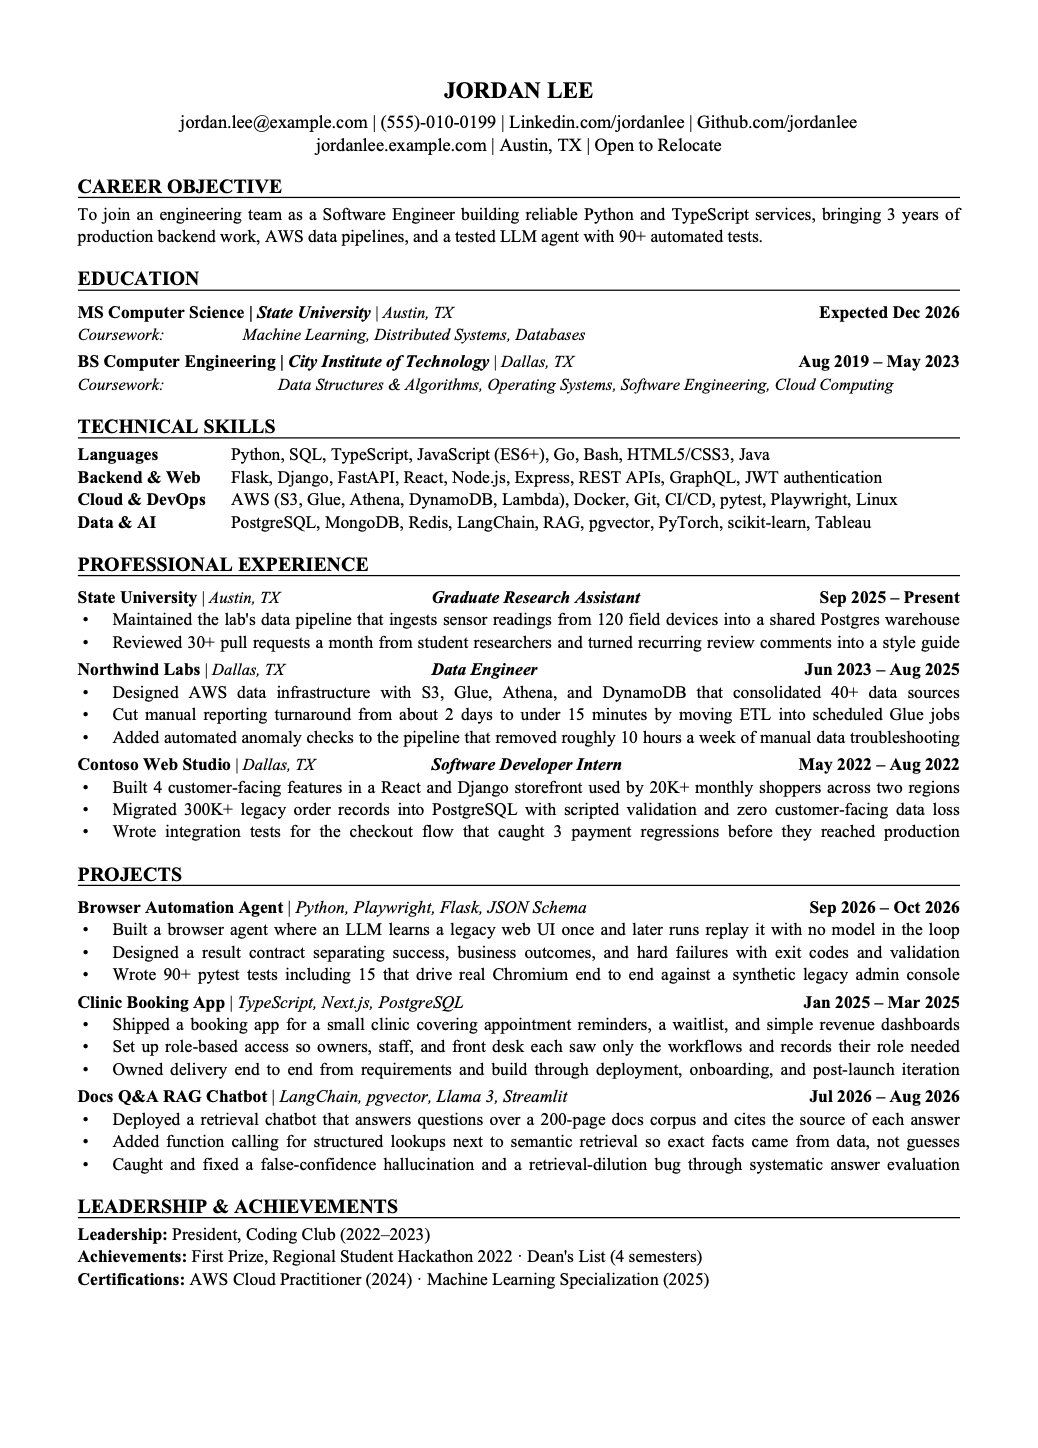
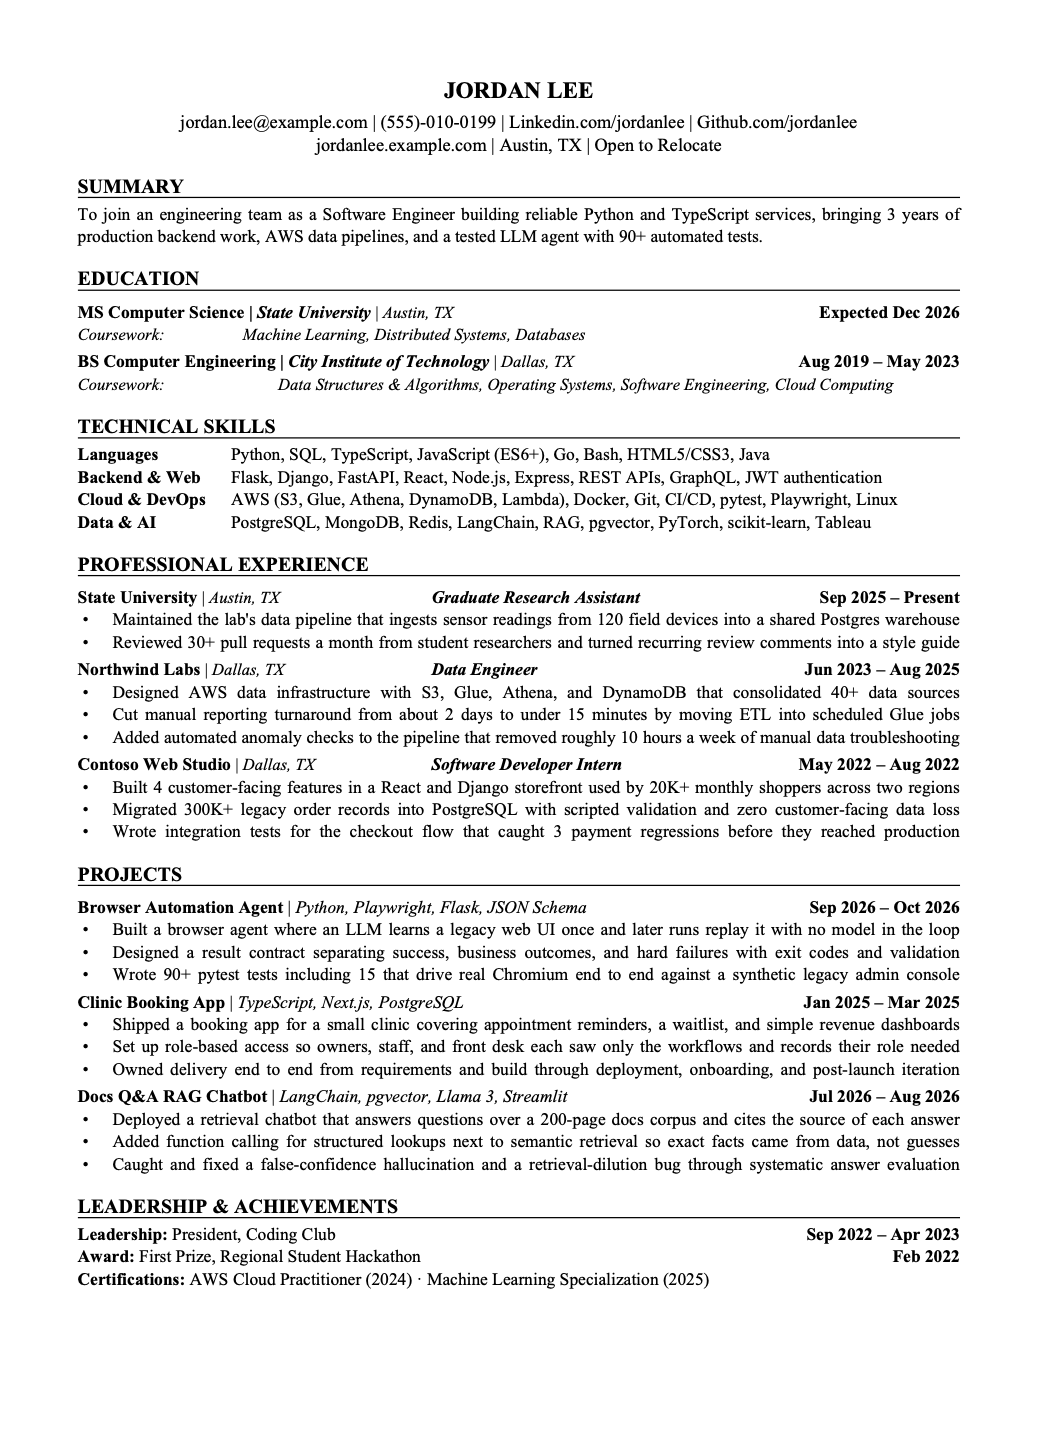
Resume follows the master prompt's section title and achievement dates
- Package has summary_title + summary (the prompt names the section, e.g. SUMMARY);
  older career_objective packages still render
- Leadership & Achievements lines carry a date, printed bold and right-aligned
- Line checks, patch revisions, autofill, and the app adapter updated to match

diff --git a/app/pipeline.py b/app/pipeline.py
@@ -376,13 +376,13 @@ def _tailor_prompt(job: dict) -> str:
 
 
 def _revise_prompt(job: dict, prev: dict, problems: list[str]) -> str:
-    doc = {k: prev[k] for k in ("career_objective", "education", "skills", "experience", "projects", "leadership", "cover_letter")}
+    doc = {k: prev[k] for k in ("summary", "career_objective", "education", "skills", "experience", "projects", "leadership", "cover_letter") if k in prev}
     return (
         "CALL TYPE: REVISE (PATCH)\n\nThe app rendered your package and its checks found these problems. Fix every one "
         "honestly (real facts only, per Section I / I-B) with the SMALLEST set of changes, leaving everything else "
         "untouched. Return only the changed fields as patches:\n"
-        "- path is one of: career_objective | experience[i].bullets[j] | projects[i].bullets[j] | skills[i].items | "
-        "leadership[i].text | education[i].coursework (comma-separated courses) | cover_letter.paragraphs[i] | "
+        "- path is one of: summary | experience[i].bullets[j] | projects[i].bullets[j] | skills[i].items | "
+        "leadership[i].text | leadership[i].date | education[i].coursework (comma-separated courses) | cover_letter.paragraphs[i] | "
         "cover_letter.re_line | cover_letter.greeting | cover_letter.closing  (indexes start at 0)\n"
         "- op: set (replace the value), append (add a new bullet: use experience[i].bullets or projects[i].bullets), "
         "delete (remove that item).\n"
@@ -450,8 +450,8 @@ def render(job: dict, data: dict) -> dict:
     }
 
 
-PATH_RE = re.compile(r"^(career_objective|cover_letter\.(re_line|greeting|closing)|cover_letter\.paragraphs\[(\d+)\]|"
-                     r"(experience|projects)\[(\d+)\]\.bullets(\[(\d+)\])?|skills\[(\d+)\]\.items|leadership\[(\d+)\]\.text|"
+PATH_RE = re.compile(r"^(summary|career_objective|cover_letter\.(re_line|greeting|closing)|cover_letter\.paragraphs\[(\d+)\]|"
+                     r"(experience|projects)\[(\d+)\]\.bullets(\[(\d+)\])?|skills\[(\d+)\]\.items|leadership\[(\d+)\]\.(text|date)|"
                      r"education\[(\d+)\]\.coursework)$")
 
 
@@ -465,8 +465,8 @@ def apply_patch(data: dict, changes: list[dict]) -> tuple[dict, int]:
         if not m:
             continue
         try:
-            if path == "career_objective":
-                out["career_objective"] = val
+            if path in ("summary", "career_objective"):
+                out["summary" if "summary" in out else "career_objective"] = val
             elif m.group(2):
                 out["cover_letter"][m.group(2)] = val
             elif m.group(3):
@@ -489,9 +489,9 @@ def apply_patch(data: dict, changes: list[dict]) -> tuple[dict, int]:
             elif m.group(8):
                 out["skills"][int(m.group(8))]["items"] = val
             elif m.group(9):
-                out["leadership"][int(m.group(9))]["text"] = val
-            elif m.group(10):
-                out["education"][int(m.group(10))]["coursework"] = [x.strip() for x in val.split(",") if x.strip()]
+                out["leadership"][int(m.group(9))][m.group(10)] = val
+            elif m.group(11):
+                out["education"][int(m.group(11))]["coursework"] = [x.strip() for x in val.split(",") if x.strip()]
             applied += 1
         except (IndexError, KeyError, ValueError):
             continue

diff --git a/app/render/pdf.py b/app/render/pdf.py
@@ -63,12 +63,12 @@ def resume_line_checks(data: dict, body_pt: float) -> list[str]:
                 problems.append(f"{label} {i} WRAPS to two lines ({fill:.0%} of one line, cut ~{int((fill - 1) * 95) + 2} characters): \"{b}\"")
             elif fill < 0.95:
                 problems.append(f"{label} {i} is SHORT ({fill:.0%} of the line, add ~{int((0.97 - fill) * 95)} characters of real detail): \"{b}\"")
-    obj = data["career_objective"]
+    obj, name = summary_text(data), summary_title(data).title()
     w = text_width_pt(obj, body_pt)
     if w and w > 2 * OBJECTIVE_WIDTH_PT:
-        problems.append(f"Career Objective runs past 2 lines ({w / OBJECTIVE_WIDTH_PT:.2f} lines)")
+        problems.append(f"{name} runs past 2 lines ({w / OBJECTIVE_WIDTH_PT:.2f} lines)")
     elif w and w < 1.9 * OBJECTIVE_WIDTH_PT:
-        problems.append(f"Career Objective line 2 is short ({w / OBJECTIVE_WIDTH_PT - 1:.0%} of the line; needs >= 90%)")
+        problems.append(f"{name} line 2 is short ({w / OBJECTIVE_WIDTH_PT - 1:.0%} of the line; needs >= 90%)")
     for s in data["skills"]:
         lw = text_width_pt(s["items"], body_pt)
         if lw and lw > 8767 / 20:
@@ -83,6 +83,8 @@ def resume_line_checks(data: dict, body_pt: float) -> list[str]:
             problems.append(f"{ed['degree']} coursework wraps ({cw / cell:.0%} of its cell); drop or shorten a course")
     for item in data["leadership"]:
         lw = (text_width_pt(item["label"].rstrip(":") + ": ", body_pt, "bold") or 0) + (text_width_pt(item["text"], body_pt) or 0)
+        if item.get("date"):
+            lw += (text_width_pt(item["date"], body_pt, "bold") or 0) + 12   # right-aligned date plus a gap
         if lw > OBJECTIVE_WIDTH_PT:
             problems.append(f"Leadership & Achievements line '{item['label']}' wraps ({lw / OBJECTIVE_WIDTH_PT:.0%} of a line); shorten it")
     if len(data["skills"]) != 4:
@@ -107,3 +109,13 @@ def cover_letter_checks(letter: dict) -> list[str]:
             if len(s.split()) > 30:
                 problems.append(f"Cover letter sentence over 30 words: \"{s[:100]}…\"")
     return problems
+
+
+def summary_text(data: dict) -> str:
+    """The summary paragraph; packages built before v18 prompts called it career_objective."""
+    return (data.get("summary") or data.get("career_objective") or "").strip()
+
+
+def summary_title(data: dict) -> str:
+    """Section title from the package (the master prompt decides it), e.g. 'SUMMARY'."""
+    return (data.get("summary_title") or ("Summary" if "summary" in data else "Career Objective")).strip()

diff --git a/app/render/pdfgen.py b/app/render/pdfgen.py
@@ -183,9 +183,10 @@ def _resume_pass(c, data: dict, L: Layout) -> float:
         y += extra_before + L.line
         return y - L.line * 0.27
 
-    # Career objective: distributed, both lines flush (IX-V.4)
-    title("Career Objective")
-    obj_lines = wrap(data["career_objective"].strip(), "R", L.body, R_TEXT_W)
+    # Summary (title from the package, e.g. "SUMMARY"): distributed, both lines flush (IX-V.4)
+    from .pdf import summary_text, summary_title
+    title(summary_title(data))
+    obj_lines = wrap(summary_text(data), "R", L.body, R_TEXT_W)
     for j, ln in enumerate(obj_lines):
         last_short = j == len(obj_lines) - 1 and width(ln, "R", L.body) < 0.92 * R_TEXT_W
         pg.justified(0, body_line(), ln, "R", L.body, R_TEXT_W, stretch=not last_short)
@@ -242,9 +243,13 @@ def _resume_pass(c, data: dict, L: Layout) -> float:
     for item in data["leadership"]:
         label = item["label"].rstrip(":") + ": "
         indent = width(label, "B", L.body)
-        for j, ln in enumerate(wrap(item["text"], "R", L.body, R_TEXT_W - indent)):
+        date = (item.get("date") or "").strip()
+        room = R_TEXT_W - indent - (width(date, "B", L.body) + 12 if date else 0)
+        for j, ln in enumerate(wrap(item["text"], "R", L.body, room)):
             b = body_line()
             pg.runs(0 if j == 0 else indent, b, ([(label, "B", L.body)] if j == 0 else []) + [(ln, "R", L.body)])
+            if j == 0 and date:
+                pg.right(b, date, "B", L.body)          # bold, flush right, like every other date
     return y
 
 

diff --git a/tests/test_core.py b/tests/test_core.py
@@ -191,3 +191,25 @@ def test_skip_marks_dont_apply_and_deletes_documents(tmp_path, monkeypatch):
     assert j["status"] == "rejected" and j["verdict"] == "DON'T APPLY" and j["resume_pdf"] is None
     assert not folder.exists() and outside.exists()
     assert db.fetchall("SELECT * FROM outreach WHERE job_id='x:2'") == []
+
+
+def test_summary_title_and_right_aligned_dates(tmp_path):
+    """The section title comes from the package (the master prompt), and achievement dates sit flush right."""
+    from pypdf import PdfReader
+    out = tmp_path / "s.pdf"
+    pdfgen.build_resume(_fitting_fixture(), str(out))
+    text = PdfReader(str(out)).pages[0].extract_text()
+    assert "SUMMARY" in text and "CAREER OBJECTIVE" not in text
+    assert "(Sep 2022" not in text and "Sep 2022 – Apr 2023" in text
+
+
+def test_older_packages_with_career_objective_still_render(tmp_path):
+    from pypdf import PdfReader
+    data = _fitting_fixture()
+    data["career_objective"] = data.pop("summary")
+    data.pop("summary_title")
+    for item in data["leadership"]:
+        item.pop("date")
+    out = tmp_path / "old.pdf"
+    pdfgen.build_resume(data, str(out))
+    assert "CAREER OBJECTIVE" in PdfReader(str(out)).pages[0].extract_text()

diff --git a/app/schemas.py b/app/schemas.py
@@ -49,12 +49,13 @@ TAILOR = obj(
     projects_selected=arr(S),
     selection_reason=S,
     header=obj(name=S, line2=arr(LINK), line3=arr(LINK)),
-    career_objective=S,
+    summary_title=S,          # the section title your master prompt uses (e.g. "SUMMARY")
+    summary=S,
     education=arr(obj(degree=S, institution=S, location=S, dates=S, coursework=arr(S))),
     skills=arr(obj(label=S, items=S)),
     experience=arr(obj(company=S, location=S, title=S, dates=S, bullets=arr(S))),
     projects=arr(obj(title=S, stack=S, dates=S, bullets=arr(S))),
-    leadership=arr(obj(label=S, text=S)),
+    leadership=arr(obj(label=S, text=S, date=S)),   # date: right-aligned "Mon YYYY" (or "" if undated)
     cover_letter=obj(
         date=S, recipient_lines=arr(S), re_line=S, greeting=S, paragraphs=arr(S), closing=S, signature=S,
     ),

diff --git a/app/form_fill.py b/app/form_fill.py
@@ -296,7 +296,7 @@ def _close_menus(frame) -> None:
 def plan(job: dict, fields: list[dict], page_url: str = "") -> list[dict]:
     t = job.get("tailor_json") or {}
     package = {
-        "career_objective": t.get("career_objective"),
+        "summary": t.get("summary") or t.get("career_objective"),
         "cover_letter_paragraphs": (t.get("cover_letter") or {}).get("paragraphs"),
         "exact_role_title": t.get("exact_role_title"),
     }

diff --git a/prompts/app_adapter.md b/prompts/app_adapter.md
@@ -41,13 +41,16 @@ wording, selection, and scoring. This adapter only changes the OUTPUT MECHANICS:
      spaces (wide letters like M/W need fewer, narrow ones like i/l/t allow more).
      Aim for that range on the first pass; the app measures each bullet exactly
      against the 509.5pt width and asks only for the lines that miss.
-   • Career Objective: exactly 2 full lines, about 205–225 characters.
+   • Summary: `summary_title` is the section title exactly as the master prompt names it
+     (e.g. "SUMMARY"); `summary` is its text: exactly 2 full lines, about 205–225 characters.
    • Each Technical Skills row and each Leadership & Achievements line must fit on one
      line (about 95 characters for skills items, about 105 for leadership text).
    • Dates exactly as the master prompt specifies ("Mon YYYY – Mon YYYY", en dash).
    • Skills: exactly 4 rows; `label` without a colon and at most ~14 characters
      (e.g. "Languages", "Backend & Web", "Cloud & Data", "AI & Tools").
-   • Leadership & Achievements lines: give the label and the text separately.
+   • Leadership & Achievements lines: give the label, the text, and the date separately.
+     `date` is printed bold and right-aligned (e.g. "Apr 2025", "Sep 2023 – Apr 2024");
+     never put dates in the text or in parentheses. Use "" for an undated line.
    • Cover letter `paragraphs`: body paragraphs only (no greeting, no sign off);
      ZERO "-", "–", or "—" characters anywhere in recipient lines, re line, greeting,
      paragraphs, or closing.
